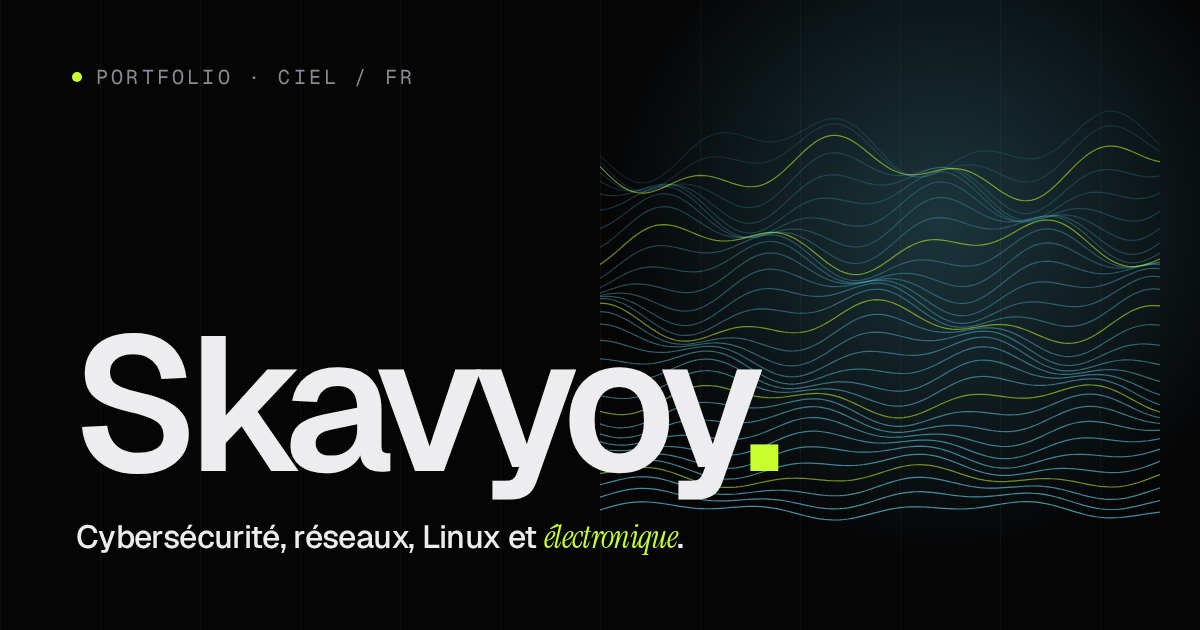
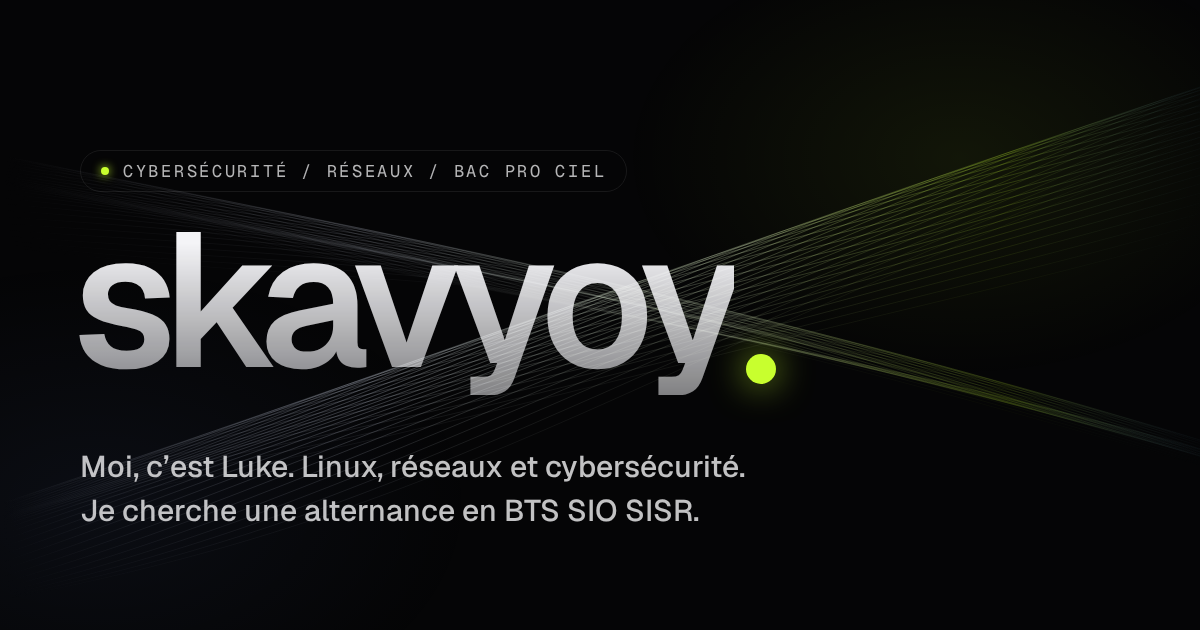
docs: record the SIMPLE direction and refresh the OG image

diff --git a/BRIEF.md b/BRIEF.md
@@ -24,7 +24,8 @@ Mais le contenu reste lisible et rapide : un recruteur doit comprendre en 10 sec
 
 Si tu peux ouvrir ces sites dans un navigateur (aperçu intégré), regarde-les vraiment : le texte seul ne suffit pas pour calibrer le niveau visuel.
 
-- **Vidéo « Relay » envoyée par Luke (2026-10-07)** → la *direction retenue* (§4) : landing SaaS générée par Opus 5.5, ruban de fibres lumineuses en 3D qui serpente sur toute la page, panneaux en verre, accent citron, mini-interfaces vivantes. On reprend l'esprit et les techniques (Three.js, bloom, caméra liée au scroll, verre dépoli) ; aucun texte, logo ni asset n'est copié.
+- **miray-28.github.io (2026-10-08)** → la *direction actuelle* (§4) : un site simple et fluide, fond noir avec étoiles et fils fins qui ondulent, grand pseudo en dégradé métal, cartes sombres, sections numérotées « 01 / À PROPOS ». Luke : « fais un site quasi comme lui, juste à notre manière ». On reprend la mise en page et l'esprit, avec le contenu, l'accent citron et le homelab de Luke ; aucun texte, code ni asset n'est copié.
+- **Vidéo « Relay » envoyée par Luke (2026-10-07)** *(direction abandonnée le 2026-10-08 : jugée lourde et peu optimisée)* → la *direction retenue* (§4) : landing SaaS générée par Opus 5.5, ruban de fibres lumineuses en 3D qui serpente sur toute la page, panneaux en verre, accent citron, mini-interfaces vivantes. On reprend l'esprit et les techniques (Three.js, bloom, caméra liée au scroll, verre dépoli) ; aucun texte, logo ni asset n'est copié.
 
 ---
 
@@ -32,18 +33,14 @@ Si tu peux ouvrir ces sites dans un navigateur (aperçu intégré), regarde-les 
 
 - **Next.js** (App Router, TypeScript strict) en export statique (`output: 'export'`)
 - **Tailwind CSS v4** (config CSS-first via `@theme`) + CSS custom pour les effets
-- **React Three Fiber** + **@react-three/postprocessing** (bloom) ; shaders GLSL maison. *(2026-10-07 : drei et rapier retirés, le badge physique ayant été abandonné à la demande de Luke.)*
-- **GSAP** + **ScrollTrigger** + **SplitText** + **@gsap/react** (`useGSAP`) — GSAP et tous ses plugins sont gratuits
-- **Lenis** pour le smooth scroll, synchronisé avec ScrollTrigger
-- **Motion** (ex-Framer Motion, import depuis `motion/react`) pour l'UI
+- **Fond animé en canvas 2D** maison (`Ambient`), sans librairie
+- **Animations en CSS** (keyframes, transitions) + un seul `IntersectionObserver` pour les apparitions au scroll ; défilement natif (`scroll-behavior: smooth`)
+- *(2026-10-08 : Three.js / R3F / postprocessing, GSAP, Lenis et Motion retirés pour alléger le site.)*
 - **Playwright** + **@axe-core/playwright** pour les tests e2e ; **Lighthouse CI** pour l'audit
 
-Installe les dernières versions stables et vérifie la doc officielle de chaque lib avant d'utiliser son API (R3F doit matcher la version de React, Tailwind v4 n'a plus de `tailwind.config.js` par défaut, etc.). Note les versions exactes dans `PLAN.md`.
+Installe les dernières versions stables et vérifie la doc officielle de chaque lib avant d'utiliser son API (Tailwind v4 n'a plus de `tailwind.config.js` par défaut, etc.). Note les versions exactes dans `PLAN.md`.
 
-**Répartition des rôles — jamais deux moteurs sur le même élément :**
-- GSAP / ScrollTrigger → tout ce qui est piloté par le scroll : pins, scrub, chorégraphie de la scène 3D, reveals de texte
-- Motion → états et micro-interactions d'UI : menu, filtres, terminal, toasts, curseur, layout animations
-- R3F `useFrame` → animation continue de la 3D ; lit des valeurs (refs) que GSAP met à jour. Jamais de `setState` dans `useFrame`.
+**Animations — règle simple :** uniquement `transform` et `opacity` (et des dégradés), coupées en mode calme. Rien ne suit la souris.
 
 ---
 
@@ -51,7 +48,7 @@ Installe les dernières versions stables et vérifie la doc officielle de chaque
 
 Tout le texte vit dans `src/content/` (fichiers TS typés). Aucun texte en dur dans les composants. Les manques restent des `TODO('[À REMPLIR] …')` dans `src/content/`.
 
-**Direction artistique** : SIGNAL au kickoff, puis **FIBRE** (§4) le 2026-10-07, sur la vidéo « Relay » envoyée par Luke : « je veux un site comme la vidéo ».
+**Direction artistique** : SIGNAL au kickoff, puis FIBRE le 2026-10-07 (vidéo « Relay »), puis **SIMPLE** (§4) le 2026-10-08, d'après miray-28.github.io : « beaucoup plus simple et fluide ».
 
 **Identité**
 - Nom affiché : **Skavyoy** (pseudo) ; prénom Luke cité une fois dans « À propos »
@@ -95,6 +92,8 @@ Tout le texte vit dans `src/content/` (fichiers TS typés). Aucun texte en dur d
 ---
 
 ## 4. Direction artistique
+
+**Concept : « SIMPLE ».** *(Décidé avec Luke le 2026-10-08 : plusieurs personnes ont trouvé FIBRE lourd et pas optimisé. Remplace FIBRE, dont la suite de cette section garde la trace.)* Fond noir avec des étoiles qui scintillent et deux rubans de fils fins (argent → citron) qui ondulent lentement, dessinés en canvas 2D. Héros : pastille de domaines, pseudo `skavyoy` géant en dégradé métal avec un point citron lumineux, deux lignes de présentation, deux boutons, carte de profil inclinée avec deux puces flottantes. Puis des sections numérotées (« 02 / COMPÉTENCES ») au grand titre ponctué d'un point : À propos, Compétences (4 cartes avec mini-illustrations CSS), Homelab (rack 8U dessiné en CSS + services), Projets, Parcours, TryHackMe, Contact. Cartes sombres presque opaques, aucun flou sauf la barre de navigation.
 
 **Concept : « FIBRE ».** *(Décidé avec Luke le 2026-10-07, d'après la vidéo « Relay » : remplace SIGNAL.)* Un faisceau de fibres optiques lumineuses, en vraie 3D, serpente du haut en bas de la page : épingle incandescente dans le héros, puis il passe derrière chaque section. Net là où il y a de la place, flouté en aurore derrière les sections denses (verre dépoli). C'est le signal qui transporte tout ce que Luke apprend : réseau, systèmes, sécurité.
 
@@ -196,7 +195,15 @@ Ligne d'état (recherche une alternance · terminale · heure de Paris en direct
 
 ---
 
-## 8. Scène 3D — spécification *(refaite le 2026-10-07, direction FIBRE)*
+## 8. Fond animé — spécification *(2026-10-08, direction SIMPLE)*
+
+- **Un `<canvas>` 2D** fixe derrière la page (`Ambient`), contexte opaque, `dpr` ≤ 1,5 (≤ 1,25 sur téléphone).
+- **Contenu** : ~90 étoiles qui scintillent (40 sur téléphone) et deux rubans de 34 fils (18 sur téléphone) : chaque fil suit `base(u) + écart(u) · cos(θ + torsion(u, t))`, plus une petite ondulation propre à chaque fil. Le scroll fait doucement glisser les rubans et les étoiles (parallaxe).
+- **Perf** : la première image est dessinée au premier temps libre ; l'animation ne démarre qu'au premier geste du visiteur (scroll, souris, toucher, clavier), s'arrête quand l'onglet est caché, et ne dessine qu'une image sur deux sur téléphone ou machine lente.
+- **Mode calme / mouvement réduit** : une image figée.
+- Halos, voile et grain : calques CSS statiques au-dessus du canvas.
+
+### Ancienne scène 3D *(direction FIBRE, retirée le 2026-10-08)*
 
 - **Un seul `<Canvas>`** R3F fixe derrière la page, importé en `dynamic(..., { ssr: false })` quand le navigateur est libre, après le premier rendu du texte. Rendu piloté par `gsap.ticker` juste après Lenis (`frameloop="never"` + `advance`) : la 3D ne décroche jamais du texte.
 - **Caméra liée au scroll** : 10 unités monde = la hauteur de l'écran ; la caméra suit `scrollY` au pixel près, donc le ruban est « imprimé » sur la page.
@@ -210,8 +217,8 @@ Ligne d'état (recherche une alternance · terminale · heure de Paris en direct
 ## 9. Qualité, perf, accessibilité, SEO
 
 - **Lighthouse** (build de prod) : Performance ≥ 80 mobile / ≥ 90 desktop, Accessibilité ≥ 95, Best Practices ≥ 95, SEO ≥ 95. CLS < 0,05.
-- JS initial minimal : three / R3F / postprocessing dans un chunk chargé après l'affichage, et seulement sur ordinateur.
-- 60 fps visés au scroll sur desktop ; aucun à-coup pendant le chargement de la 3D.
+- JS initial minimal : React + Next.js seulement, aucune lib d'animation.
+- 60 fps visés au scroll ; aucun à-coup au chargement.
 - Responsive impeccable de 360 px à 2560 px ; tactile pensé (rien qui n'existe qu'au survol).
 - **Accessibilité** : HTML sémantique, `lang="fr"`, un seul `h1`, focus visible stylé, tout utilisable au clavier (menu, terminal, filtres), contrastes AA, canvas `aria-hidden` avec le contenu équivalent en HTML, `prefers-reduced-motion` respecté partout.
 - **SEO / partage** : metadata Next complète, image Open Graph 1200×630, `sitemap.xml` et `robots.txt` statiques, JSON-LD `Person`, favicon + icônes, `theme-color`.

diff --git a/PLAN.md b/PLAN.md
@@ -1,4 +1,4 @@
-# PLAN — Portfolio 3D « FIBRE » de Skavyoy
+# PLAN — Portfolio « SIMPLE » de Skavyoy
 
 > Suivi d'exécution du `BRIEF.md`. Une case n'est cochée qu'avec la preuve sous les yeux (sortie de commande ou capture).
 > Direction au kickoff (2026-10-07) : SIGNAL (particules). **Le même jour, Luke a changé de direction** sur la vidéo « Relay » : « je veux un site comme la vidéo ». Direction **FIBRE** : ruban de fibres 3D accroché à la page, bloom, verre dépoli, rack homelab en 3D, rien qui suive la souris. Les cases SIGNAL devenues sans objet sont marquées *remplacé* ; le travail FIBRE est suivi en P7.
@@ -131,12 +131,25 @@ tests/e2e/                       Playwright : desktop 1440×900, mobile 390×844
 - [ ] P7.8 Plus aucun effet lié à la souris (ruban, curseur, magnétisme, tilt)
 - [ ] P7.9 Fallbacks : mode calme, téléphone et sans WebGL → ruban SVG + rack SVG, site complet
 
+### P8 — Direction SIMPLE (miray-28.github.io, 2026-10-08)
+- [x] P8.1 Retrait de Three.js / R3F / postprocessing, GSAP, Lenis, Motion, préloader, Konami, badge, manifeste — `npm ls --depth=0`
+- [x] P8.2 Fond `Ambient` en canvas 2D (étoiles + 2 rubans de fils), animé au premier geste, figé en mode calme — capture 1440 px + test e2e `data-state`
+- [x] P8.3 Héros façon miray (pseudo métal, carte inclinée, puces), sections numérotées, cartes sombres — captures 1440 / 390 / reduced-motion
+- [x] P8.4 Homelab : rack 8U en CSS à l'échelle (écran btop, switch et LED, MS-01) + services, RAM, câblage — capture
+- [x] P8.5 Apparitions en CSS + un seul `IntersectionObserver` ; menu, terminal, toasts en CSS
+- [x] P8.6 e2e 24 / 24 (desktop, mobile, reduced-motion), 0 erreur console, 0 violation axe serious/critical — `npm run test:e2e`
+- [ ] P8.7 Lighthouse — desktop 94 / 100 / 100 / 100 ✔ ; mobile 54 en simulation locale ✘ (le contenu s'affiche à 0,7 s mesuré avec le CPU ralenti 4×, mais Lighthouse compte le JS de base de React / Next comme dépendance du LCP)
+- [x] P8.8 Image OG régénérée dans le nouveau style — `npm run assets:og`
+
 ## Journal
 
 - 2026-10-07, session 1 : direction SIGNAL, particules, lanyard, 22 tests e2e sur 33 verts.
 - 2026-10-07, session 2 : fond calme, badge recto / verso, puis changement de direction vers FIBRE sur la vidéo de Luke.
+- 2026-10-08, session 3 : FIBRE jugé lourd par l'entourage de Luke → direction SIMPLE d'après miray-28.github.io ; 3D et libs d'animation retirées.
 
 Corrigé en route (à retenir) :
+- un texte en `background-clip: text` (couleur transparente) n'est pas compté par Chrome comme contenu visible (LCP) → dégradé métal fait avec un `mask-image`.
+- un test qui fait défiler la page plus vite que le navigateur ne la dessine rate des apparitions → attendre deux `requestAnimationFrame` à chaque pas.
 - les fibres extrudées à l'écran ont un sens de rotation variable → `DoubleSide`, sinon three les masque.
 - Lightning CSS (Tailwind 4) fusionne `backdrop-filter` et `-webkit-backdrop-filter` en ne gardant que le dernier → n'écrire que la propriété standard.
 - `frameloop="never"` : R3F prend le temps passé à `advance()` tel quel → lui donner des secondes.

diff --git a/README.md b/README.md
@@ -1,15 +1,14 @@
 # Skavyoy — portfolio
 
 Le portfolio de Luke (Skavyoy), élève en Bac Pro CIEL : cybersécurité, réseaux, Linux et électronique.
-Un site d'une page en export statique, avec un ruban de fibres lumineuses en 3D qui serpente derrière toute la page et un rack homelab en 3D.
+Un site d'une page en export statique, simple et fluide : un fond étoilé où ondulent des fils fins, des cartes sombres et le rack du homelab dessiné en CSS.
 
 En ligne : <https://skavyoy8.github.io>
 
 ## Stack
 
 - **Next.js 16** (App Router) en export statique, **TypeScript**, **Tailwind CSS 4**
-- **Three.js** via **React Three Fiber**, bloom avec **@react-three/postprocessing**, shaders GLSL maison
-- **GSAP** (ScrollTrigger, SplitText) pour le scroll, **Lenis** pour le défilement fluide, **Motion** pour l'interface
+- Fond animé en **canvas 2D** fait maison, animations en **CSS**, aucune librairie d'animation
 - **Playwright** + **axe** pour les tests, **Lighthouse CI** pour la performance
 
 La spécification complète est dans [BRIEF.md](BRIEF.md), le suivi dans [PLAN.md](PLAN.md).
@@ -44,12 +43,12 @@ Tout le texte du site est dans `src/content/`, un fichier par section :
 
 | Fichier | Contenu |
 | --- | --- |
-| `site.ts` | nom, accroche, héros, panneau réseau, pied de page |
-| `about.ts` | « À propos » et badge d'accès |
-| `pillars.ts` | les 4 piliers et leurs mini-interfaces, les outils |
+| `site.ts` | nom, héros, pied de page |
+| `about.ts` | « À propos » et la fiche de profil |
+| `pillars.ts` | les 4 compétences, les outils |
 | `homelab.ts` | le rack (unités), les services, le câblage |
 | `lab.ts` | les projets |
-| `timeline.ts` | le parcours scolaire et le curseur « glisse dans le temps » |
+| `timeline.ts` | le parcours scolaire |
 | `tryhackme.ts` | profil, stats, rooms et badges TryHackMe |
 | `links.ts` | réseaux sociaux, email, CV, contact |
 
@@ -84,6 +83,6 @@ Le suivi du déploiement se trouve dans l'onglet **Actions** du dépôt sur GitH
 
 ## Bon à savoir
 
-- **Mode calme** : le bouton en forme d'onde, dans la barre du haut, coupe la 3D et les animations lourdes. Il s'active tout seul si l'appareil demande moins d'animations.
-- **Téléphone** : pour l'instant, la 3D est réservée aux ordinateurs. Sur téléphone, le ruban est une image statique et le rack un dessin.
+- **Mode calme** : le bouton en forme d'onde, dans la barre du haut, fige le fond et coupe les animations. Il s'active tout seul si l'appareil demande moins d'animations.
+- **Fond animé** : il est dessiné tout de suite, mais ne bouge qu'au premier geste (scroll, souris, toucher) : la page se charge plus vite.
 - **Terminal caché** : `Ctrl + K` (ou `⌘K`), puis tape `help`.

diff --git a/CLAUDE.md b/CLAUDE.md
@@ -1,6 +1,6 @@
 # CLAUDE.md
 
-Portfolio 3D de Luke (élève en Bac Pro CIEL) — Next.js en export statique, déployé sur GitHub Pages.
+Portfolio de Luke (élève en Bac Pro CIEL) — Next.js en export statique, déployé sur GitHub Pages.
 
 - Spécification complète : `BRIEF.md` (source de vérité). Suivi : `PLAN.md`, à cocher au fur et à mesure.
 - Luke apprend Git et le dev web : dans tes récaps (en français), explique en une phrase chaque choix non évident.
@@ -18,9 +18,9 @@ Portfolio 3D de Luke (élève en Bac Pro CIEL) — Next.js en export statique, d
 - Export statique : pas de route handlers dynamiques, middleware, ISR, Server Actions, `cookies()` / `headers()`, ni optimisation d'image Next.
 - Tout fichier de `public/` chargé hors `next/link` / `next/image` passe par `asset()` (`src/lib/asset.ts`) à cause du basePath.
 - Tout le texte du site vit dans `src/content/` (typé). N'invente jamais de stats, rooms, badges ou projets : laisse `[À REMPLIR]`.
-- 3D : un seul `<Canvas>` (ruban et rack dans la même scène), import dynamique `ssr: false`, aucun `setState` ni allocation dans `useFrame`, valeurs de scroll transmises par refs (`ribbonState`, `rackState`).
-- GSAP via `useGSAP` avec `scope` (nettoyage auto). Lenis synchronisé avec ScrollTrigger (`lenis.on('scroll', ScrollTrigger.update)`, Lenis piloté par `gsap.ticker`, `gsap.ticker.lagSmoothing(0)`).
-- GSAP = scroll et chorégraphie ; Motion (`motion/react`) = UI et micro-interactions. Jamais les deux sur le même élément.
+- Le site doit rester **simple et fluide** (direction SIMPLE, d'après miray-28.github.io) : pas de 3D, pas de lib d'animation. N'en ajoute pas sans l'accord de Luke.
+- Fond : un seul canvas 2D (`Ambient`), aucune allocation dans la boucle d'animation, animé seulement après le premier geste, figé en mode calme.
+- Animations en CSS (`transform` / `opacity`), apparitions via `data-reveal` (un seul `IntersectionObserver`). Rien ne suit la souris.
 - `prefers-reduced-motion` et le mode calme donnent toujours un site complet et beau.
 - Ne désactive jamais une règle lint / TS / a11y et ne baisse jamais un seuil pour faire passer un test : corrige la cause.
 
